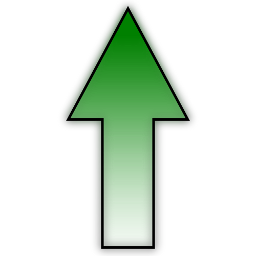
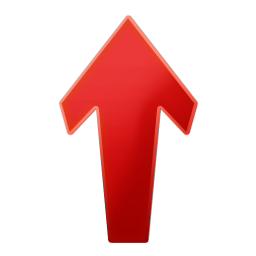
[ticket#56] Neue Grafik von Selmiak für das JoyMappen eingebaut.

Changed region(s): [[0.2188, 0.0, 0.7812, 1.0]]

diff --git a/c64_class.cpp b/c64_class.cpp
@@ -1482,13 +1482,13 @@ void C64Class::DrawC64Screen()
         else glBindTexture(GL_TEXTURE_2D,Kreis0Texture);
         glBegin(GL_QUADS);
         glTexCoord2i(1,0);
-        glVertex3f(0.07,-0.09,0);
+        glVertex3f(0.11,-0.15,0);
         glTexCoord2i(1,1);
-        glVertex3f(0.07,0.09,0.0);
+        glVertex3f(0.11,0.15,0.0);
         glTexCoord2i(0,1);
-        glVertex3f(-0.07,0.09,0);
+        glVertex3f(-0.11,0.15,0);
         glTexCoord2i(0,0);
-        glVertex3f(-0.07,-0.09,0);
+        glVertex3f(-0.11,-0.15,0);
         glEnd();
     }
 
